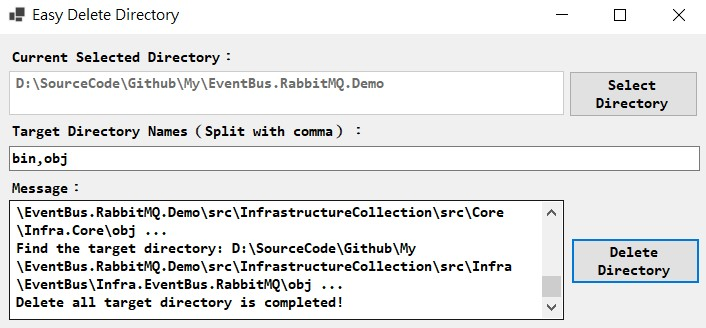
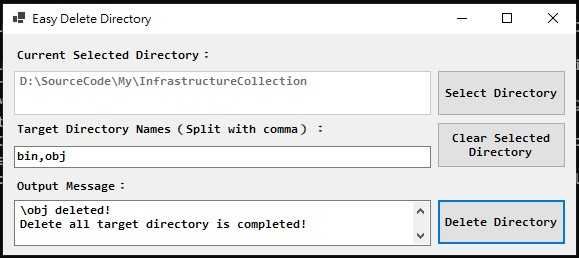
Modify code structure

Changed region(s): [[0.0, 0.0, 1.0, 1.0]]

diff --git a/src/EasyDeleteDirectory/EasyDeleteDirectoryForm.Designer.cs b/src/EasyDeleteDirectory/EasyDeleteDirectoryForm.Designer.cs
@@ -29,7 +29,7 @@ namespace EasyDeleteDirectory
         /// </summary>
         private void InitializeComponent()
         {
-            this.TargetDirectoryPathTextBox = new System.Windows.Forms.TextBox();
+            this.TargetDirectoryTextBox = new System.Windows.Forms.TextBox();
             this.SelectDirectoryButton = new System.Windows.Forms.Button();
             this.FolderBrowserDialog = new System.Windows.Forms.FolderBrowserDialog();
             this.CurrentSelectedDirectoryLabel = new System.Windows.Forms.Label();
@@ -38,22 +38,23 @@ namespace EasyDeleteDirectory
             this.MessageTextBox = new System.Windows.Forms.TextBox();
             this.MessageLabel = new System.Windows.Forms.Label();
             this.DeleteDirectoryButton = new System.Windows.Forms.Button();
+            this.ClearDirectoryButton = new System.Windows.Forms.Button();
             this.SuspendLayout();
             // 
-            // TargetDirectoryPathTextBox
+            // TargetDirectoryTextBox
             // 
-            this.TargetDirectoryPathTextBox.BackColor = System.Drawing.Color.White;
-            this.TargetDirectoryPathTextBox.Enabled = false;
-            this.TargetDirectoryPathTextBox.Location = new System.Drawing.Point(11, 37);
-            this.TargetDirectoryPathTextBox.Multiline = true;
-            this.TargetDirectoryPathTextBox.Name = "TargetDirectoryPathTextBox";
-            this.TargetDirectoryPathTextBox.ReadOnly = true;
-            this.TargetDirectoryPathTextBox.Size = new System.Drawing.Size(555, 44);
-            this.TargetDirectoryPathTextBox.TabIndex = 0;
+            this.TargetDirectoryTextBox.BackColor = System.Drawing.Color.White;
+            this.TargetDirectoryTextBox.Enabled = false;
+            this.TargetDirectoryTextBox.Location = new System.Drawing.Point(11, 37);
+            this.TargetDirectoryTextBox.Multiline = true;
+            this.TargetDirectoryTextBox.Name = "TargetDirectoryTextBox";
+            this.TargetDirectoryTextBox.ReadOnly = true;
+            this.TargetDirectoryTextBox.Size = new System.Drawing.Size(417, 44);
+            this.TargetDirectoryTextBox.TabIndex = 0;
             // 
             // SelectDirectoryButton
             // 
-            this.SelectDirectoryButton.Location = new System.Drawing.Point(571, 37);
+            this.SelectDirectoryButton.Location = new System.Drawing.Point(434, 36);
             this.SelectDirectoryButton.Name = "SelectDirectoryButton";
             this.SelectDirectoryButton.Size = new System.Drawing.Size(129, 46);
             this.SelectDirectoryButton.TabIndex = 1;
@@ -66,7 +67,7 @@ namespace EasyDeleteDirectory
             this.CurrentSelectedDirectoryLabel.AutoSize = true;
             this.CurrentSelectedDirectoryLabel.Location = new System.Drawing.Point(11, 14);
             this.CurrentSelectedDirectoryLabel.Name = "CurrentSelectedDirectoryLabel";
-            this.CurrentSelectedDirectoryLabel.Size = new System.Drawing.Size(233, 18);
+            this.CurrentSelectedDirectoryLabel.Size = new System.Drawing.Size(204, 14);
             this.CurrentSelectedDirectoryLabel.TabIndex = 2;
             this.CurrentSelectedDirectoryLabel.Text = "Current Selected Directory：";
             // 
@@ -75,7 +76,7 @@ namespace EasyDeleteDirectory
             this.DirectoryNamesLabel.AutoSize = true;
             this.DirectoryNamesLabel.Location = new System.Drawing.Point(11, 88);
             this.DirectoryNamesLabel.Name = "DirectoryNamesLabel";
-            this.DirectoryNamesLabel.Size = new System.Drawing.Size(363, 18);
+            this.DirectoryNamesLabel.Size = new System.Drawing.Size(318, 14);
             this.DirectoryNamesLabel.TabIndex = 3;
             this.DirectoryNamesLabel.Text = "Target Directory Names（Split with comma）：";
             // 
@@ -83,7 +84,7 @@ namespace EasyDeleteDirectory
             // 
             this.TargetDirectoryNamesTextBox.Location = new System.Drawing.Point(11, 112);
             this.TargetDirectoryNamesTextBox.Name = "TargetDirectoryNamesTextBox";
-            this.TargetDirectoryNamesTextBox.Size = new System.Drawing.Size(691, 25);
+            this.TargetDirectoryNamesTextBox.Size = new System.Drawing.Size(417, 22);
             this.TargetDirectoryNamesTextBox.TabIndex = 4;
             this.TargetDirectoryNamesTextBox.Text = "bin,obj";
             // 
@@ -96,7 +97,7 @@ namespace EasyDeleteDirectory
             this.MessageTextBox.Name = "MessageTextBox";
             this.MessageTextBox.ReadOnly = true;
             this.MessageTextBox.ScrollBars = System.Windows.Forms.ScrollBars.Both;
-            this.MessageTextBox.Size = new System.Drawing.Size(555, 120);
+            this.MessageTextBox.Size = new System.Drawing.Size(417, 46);
             this.MessageTextBox.TabIndex = 5;
             // 
             // MessageLabel
@@ -104,13 +105,13 @@ namespace EasyDeleteDirectory
             this.MessageLabel.AutoSize = true;
             this.MessageLabel.Location = new System.Drawing.Point(11, 145);
             this.MessageLabel.Name = "MessageLabel";
-            this.MessageLabel.Size = new System.Drawing.Size(81, 18);
+            this.MessageLabel.Size = new System.Drawing.Size(120, 14);
             this.MessageLabel.TabIndex = 6;
-            this.MessageLabel.Text = "Message：";
+            this.MessageLabel.Text = "Output Message：";
             // 
             // DeleteDirectoryButton
             // 
-            this.DeleteDirectoryButton.Location = new System.Drawing.Point(573, 204);
+            this.DeleteDirectoryButton.Location = new System.Drawing.Point(434, 165);
             this.DeleteDirectoryButton.Name = "DeleteDirectoryButton";
             this.DeleteDirectoryButton.Size = new System.Drawing.Size(129, 46);
             this.DeleteDirectoryButton.TabIndex = 7;
@@ -118,11 +119,22 @@ namespace EasyDeleteDirectory
             this.DeleteDirectoryButton.UseVisualStyleBackColor = true;
             this.DeleteDirectoryButton.Click += new System.EventHandler(this.DeleteDirectoryButton_Click);
             // 
+            // ClearDirectoryButton
+            // 
+            this.ClearDirectoryButton.Location = new System.Drawing.Point(434, 88);
+            this.ClearDirectoryButton.Name = "ClearDirectoryButton";
+            this.ClearDirectoryButton.Size = new System.Drawing.Size(129, 46);
+            this.ClearDirectoryButton.TabIndex = 8;
+            this.ClearDirectoryButton.Text = "Clear Selected Directory";
+            this.ClearDirectoryButton.UseVisualStyleBackColor = true;
+            this.ClearDirectoryButton.Click += new System.EventHandler(this.ClearDirectoryButton_Click);
+            // 
             // EasyDeleteDirectoryForm
             // 
-            this.AutoScaleDimensions = new System.Drawing.SizeF(8F, 18F);
+            this.AutoScaleDimensions = new System.Drawing.SizeF(7F, 14F);
             this.AutoScaleMode = System.Windows.Forms.AutoScaleMode.Font;
-            this.ClientSize = new System.Drawing.Size(711, 298);
+            this.ClientSize = new System.Drawing.Size(573, 221);
+            this.Controls.Add(this.ClearDirectoryButton);
             this.Controls.Add(this.DeleteDirectoryButton);
             this.Controls.Add(this.MessageLabel);
             this.Controls.Add(this.MessageTextBox);
@@ -130,7 +142,7 @@ namespace EasyDeleteDirectory
             this.Controls.Add(this.DirectoryNamesLabel);
             this.Controls.Add(this.CurrentSelectedDirectoryLabel);
             this.Controls.Add(this.SelectDirectoryButton);
-            this.Controls.Add(this.TargetDirectoryPathTextBox);
+            this.Controls.Add(this.TargetDirectoryTextBox);
             this.Font = new System.Drawing.Font("Consolas", 9F, System.Drawing.FontStyle.Bold, System.Drawing.GraphicsUnit.Point);
             this.Name = "EasyDeleteDirectoryForm";
             this.Text = "Easy Delete Directory";
@@ -141,7 +153,7 @@ namespace EasyDeleteDirectory
 
         #endregion
 
-        private System.Windows.Forms.TextBox TargetDirectoryPathTextBox;
+        private System.Windows.Forms.TextBox TargetDirectoryTextBox;
         private System.Windows.Forms.Button SelectDirectoryButton;
         private System.Windows.Forms.FolderBrowserDialog FolderBrowserDialog;
         private System.Windows.Forms.Label CurrentSelectedDirectoryLabel;
@@ -150,6 +162,7 @@ namespace EasyDeleteDirectory
         private System.Windows.Forms.TextBox MessageTextBox;
         private System.Windows.Forms.Label MessageLabel;
         private System.Windows.Forms.Button DeleteDirectoryButton;
+        private System.Windows.Forms.Button ClearDirectoryButton;
     }
 }
 

diff --git a/src/EasyDeleteDirectory/EasyDeleteDirectoryForm.cs b/src/EasyDeleteDirectory/EasyDeleteDirectoryForm.cs
@@ -1,5 +1,6 @@
 using System;
 using System.IO;
+using System.Linq;
 using System.Windows.Forms;
 
 namespace EasyDeleteDirectory
@@ -10,49 +11,55 @@ namespace EasyDeleteDirectory
 
         private void SelectDirectoryButton_Click(object sender, EventArgs e)
         {
-            var result = FolderBrowserDialog.ShowDialog();
-
-            if (result == DialogResult.OK)
-                TargetDirectoryPathTextBox.Text = FolderBrowserDialog.SelectedPath;
+            if (FolderBrowserDialog.ShowDialog() is DialogResult.OK)
+                TargetDirectoryTextBox.Text = FolderBrowserDialog.SelectedPath;
         }
+
+        private void ClearDirectoryButton_Click(object sender, EventArgs e) => TargetDirectoryTextBox.Text = string.Empty;
 
         private void DeleteDirectoryButton_Click(object sender, EventArgs e)
         {
             MessageTextBox.Text = string.Empty;
 
-            var selectedDirectoryPath = TargetDirectoryPathTextBox.Text;
+            var selectedDirectory = TargetDirectoryTextBox.Text;
 
-            if (!string.IsNullOrEmpty(selectedDirectoryPath))
-            {
-                var subDirectoryPaths =
-                    Directory.GetDirectories(selectedDirectoryPath);
-
-                var targetDirectoryNames =
-                    TargetDirectoryNamesTextBox.Text.Split(',', StringSplitOptions.RemoveEmptyEntries);
-
-                foreach (var subDirectoryPath in subDirectoryPaths)
-                {
-                    foreach (var targetDirectoryName in targetDirectoryNames)
-                    {
-                        var targetDirectoryPaths =
-                            Directory.GetDirectories(subDirectoryPath, targetDirectoryName, SearchOption.AllDirectories);
-
-                        foreach (var targetDirectoryPath in targetDirectoryPaths)
-                        {
-                            MessageTextBox.AppendText($"Find the target directory: {targetDirectoryPath} ... {Environment.NewLine}");
-
-                            if (Directory.Exists(targetDirectoryPath))
-                                Directory.Delete(targetDirectoryPath, true);
-                        }
-                    }
-                }
-
-                MessageTextBox.AppendText($"Delete all target directory is completed!");
-            }
-            else
+            if (string.IsNullOrEmpty(selectedDirectory))
             {
                 MessageBox.Show("First of all, please select your target directory.", "Warning", MessageBoxButtons.OK, MessageBoxIcon.Warning);
+                return;
             }
+
+            var targetDirectoryNames =
+                TargetDirectoryNamesTextBox.Text.Split(',', StringSplitOptions.RemoveEmptyEntries);
+
+            foreach (var subDirectory in Directory.GetDirectories(selectedDirectory))
+            {
+                DeleteDirectoryByNames(subDirectory, targetDirectoryNames);
+            }
+
+            MessageTextBox.AppendText("Delete all target directory is completed!");
+        }
+
+        private void DeleteDirectoryByNames(string directory, string[] names)
+        {
+            if (!names.Any()) return;
+
+            foreach (var name in names)
+            {
+                foreach (var subDirectory in Directory.GetDirectories(directory, name, SearchOption.AllDirectories))
+                {
+                    DeleteDirectory(subDirectory, true, () => MessageTextBox.AppendText($"{subDirectory} deleted! {Environment.NewLine}"));
+                }
+            }
+        }
+
+        private static void DeleteDirectory(string directory, bool recursive, Action action)
+        {
+            if (!Directory.Exists(directory)) return;
+
+            Directory.Delete(directory, recursive);
+
+            action();
         }
     }
 }
